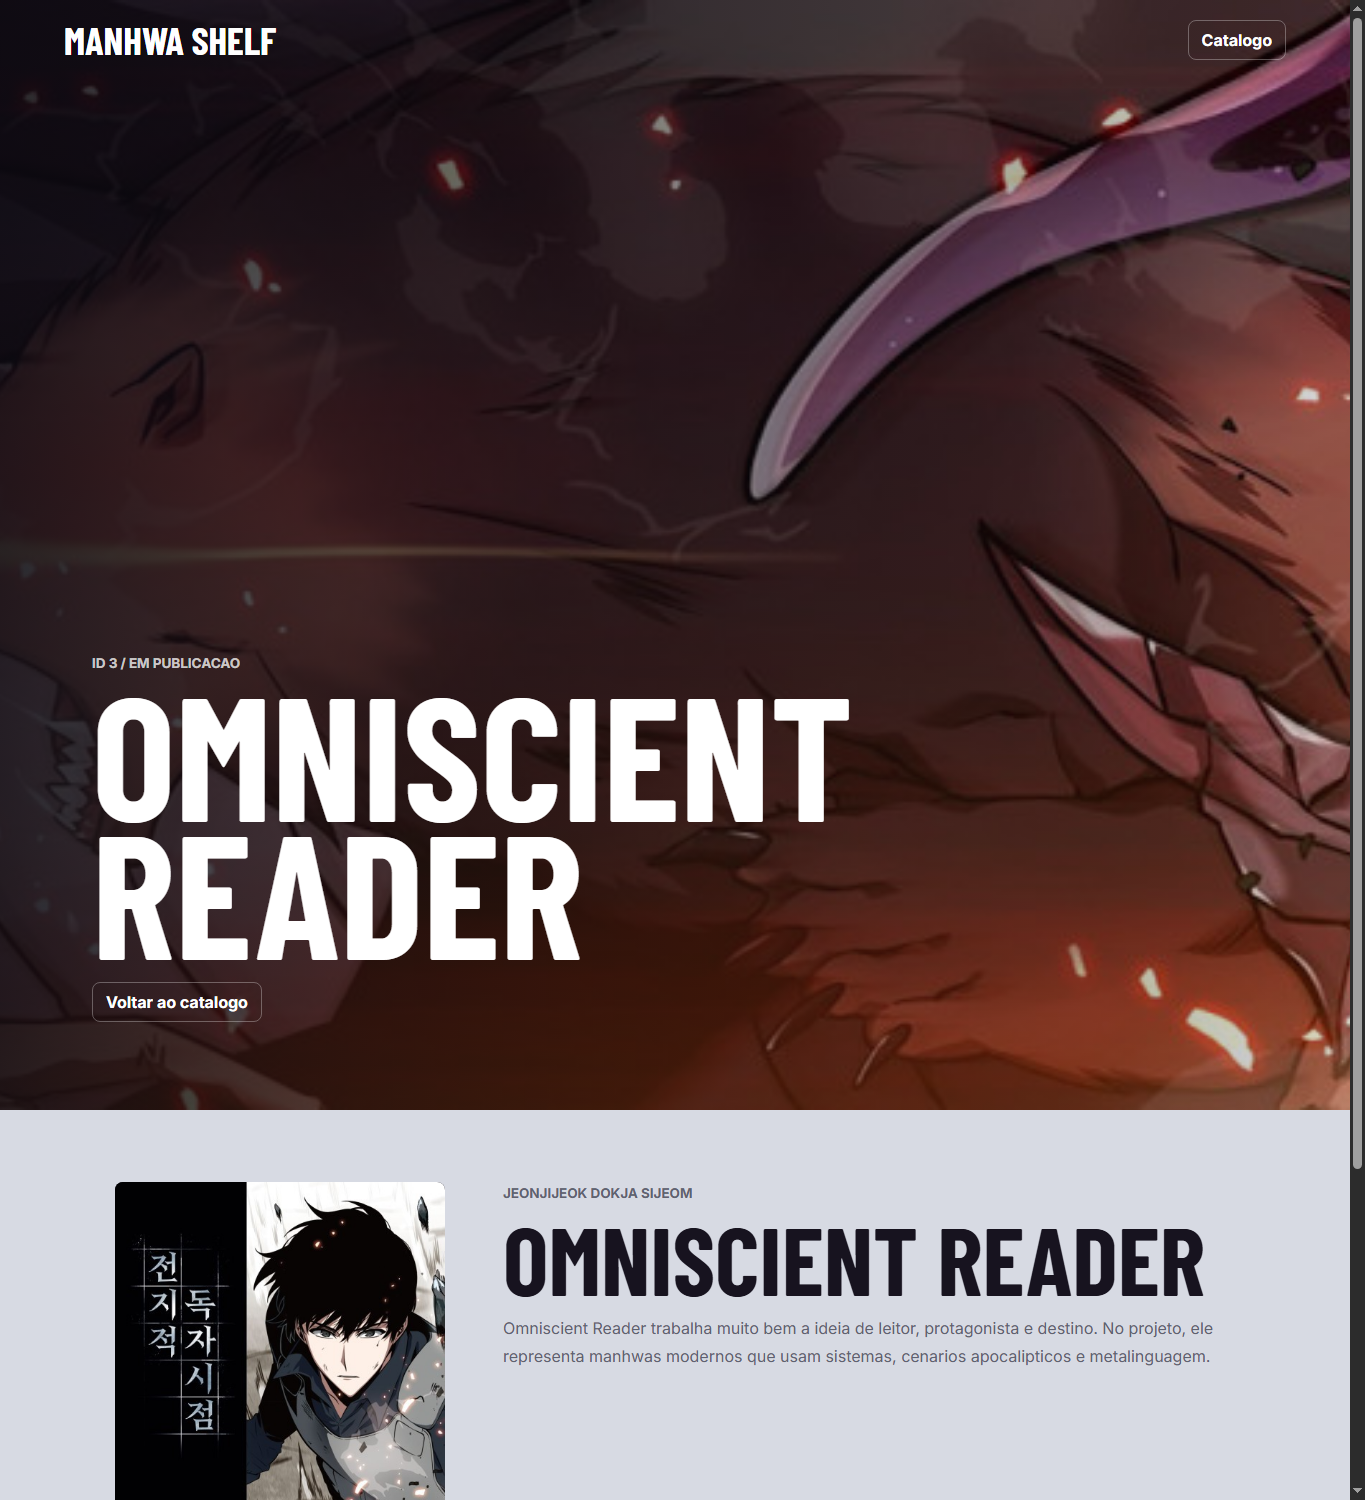
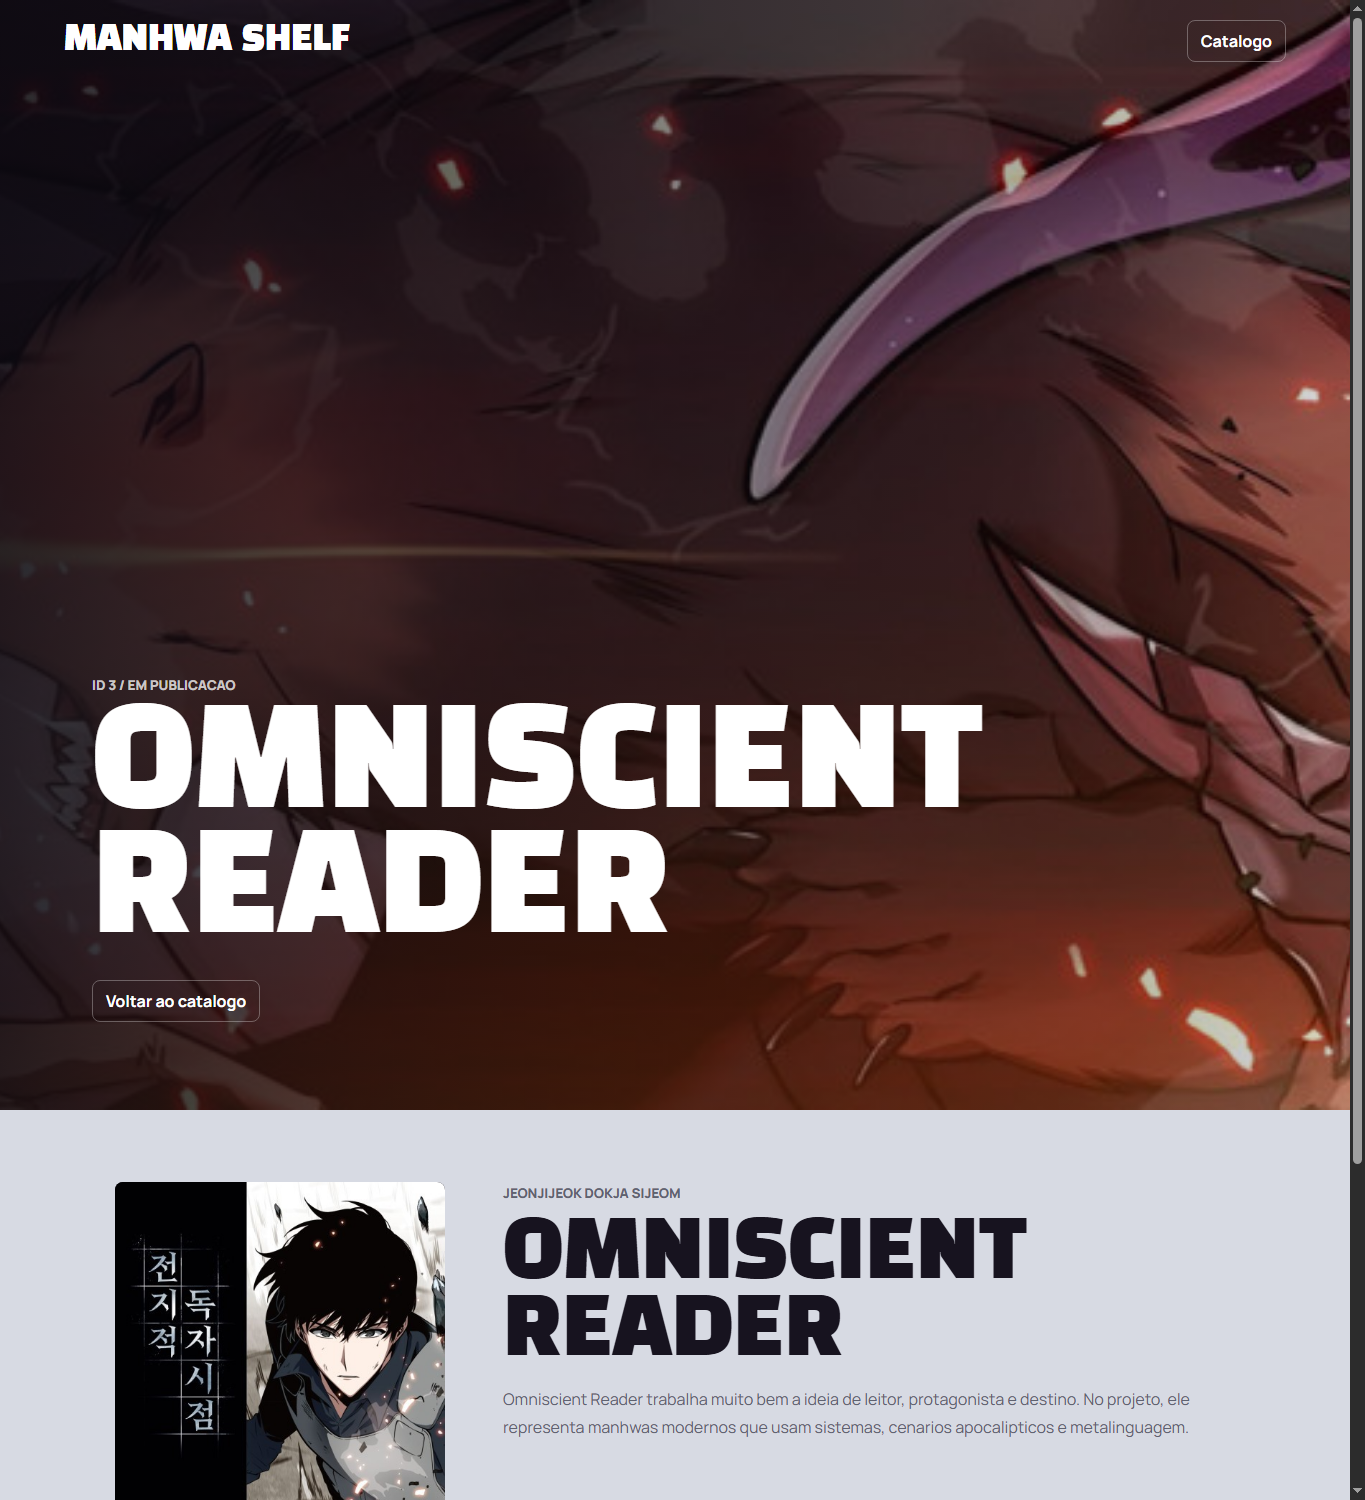
style: update manhwa typography

diff --git a/public/styles.css b/public/styles.css
@@ -7,8 +7,8 @@
   --accent: #6d3fc2;
   --accent-dark: #3b1f51;
   --radius: 8px;
-  --heading: "Barlow Condensed", Arial Narrow, sans-serif;
-  --body: "Inter", Arial, sans-serif;
+  --heading: "Black Han Sans", Impact, sans-serif;
+  --body: "Manrope", Arial, sans-serif;
 }
 
 * {
@@ -54,9 +54,9 @@ img {
 
 .brand-link {
   font-family: var(--heading);
-  font-size: clamp(1.7rem, 4vw, 2.4rem);
-  font-weight: 700;
-  line-height: 0.9;
+  font-size: clamp(1.45rem, 3.4vw, 2.1rem);
+  font-weight: 400;
+  line-height: 1;
   text-decoration: none;
   text-transform: uppercase;
 }
@@ -120,15 +120,15 @@ img {
 .empty-state h2 {
   margin: 0;
   font-family: var(--heading);
-  font-weight: 700;
+  font-weight: 400;
   letter-spacing: 0;
   text-transform: uppercase;
 }
 
 .hero-content h1 {
   max-width: 760px;
-  font-size: clamp(5rem, 17vw, 14rem);
-  line-height: 0.78;
+  font-size: clamp(4.1rem, 13vw, 10.5rem);
+  line-height: 0.92;
 }
 
 .hero-content strong {
@@ -221,14 +221,15 @@ img {
   color: var(--accent);
   font-family: var(--heading);
   font-size: 2rem;
-  font-weight: 700;
+  font-weight: 400;
 }
 
 .reading-copy h3 {
   margin: 6px 0 10px;
-  font-size: clamp(1.8rem, 5vw, 4.2rem);
-  line-height: 0.9;
+  font-size: clamp(1.6rem, 4vw, 3.4rem);
+  line-height: 1;
   font-family: var(--heading);
+  font-weight: 400;
   text-transform: uppercase;
 }
 
@@ -285,8 +286,8 @@ dd,
 
 .detail-hero-content h1 {
   max-width: 880px;
-  font-size: clamp(4rem, 14vw, 11rem);
-  line-height: 0.78;
+  font-size: clamp(3.5rem, 11vw, 8.5rem);
+  line-height: 0.92;
 }
 
 .detail-hero .secondary-link {
@@ -317,8 +318,8 @@ dd,
 }
 
 .detail-story h2 {
-  font-size: clamp(2.8rem, 8vw, 6rem);
-  line-height: 0.86;
+  font-size: clamp(2.4rem, 6vw, 5rem);
+  line-height: 0.96;
 }
 
 .facts-grid {
@@ -377,11 +378,20 @@ dd,
   }
 
   .hero-content h1 {
-    font-size: clamp(3.4rem, 18vw, 5rem);
+    font-size: clamp(2.85rem, 13vw, 3.9rem);
   }
 
   .hero-content span {
     max-width: 28ch;
+  }
+
+  .section-heading h2,
+  .reading-copy h3 {
+    font-size: clamp(2.2rem, 12vw, 3.3rem);
+  }
+
+  .detail-hero-content h1 {
+    font-size: clamp(2.8rem, 13vw, 4rem);
   }
 
   .detail-hero-content h1 {

diff --git a/public/detalhes.html b/public/detalhes.html
@@ -6,7 +6,7 @@
     <title>Manhwa Shelf | Detalhes</title>
     <link rel="preconnect" href="https://fonts.googleapis.com">
     <link rel="preconnect" href="https://fonts.gstatic.com" crossorigin>
-    <link href="https://fonts.googleapis.com/css2?family=Barlow+Condensed:wght@600;700&family=Inter:wght@400;500;600;700&display=swap" rel="stylesheet">
+    <link href="https://fonts.googleapis.com/css2?family=Black+Han+Sans&family=Manrope:wght@400;500;700;800&display=swap" rel="stylesheet">
     <link rel="stylesheet" href="styles.css">
   </head>
   <body>

diff --git a/public/index.html b/public/index.html
@@ -6,7 +6,7 @@
     <title>Manhwa Shelf</title>
     <link rel="preconnect" href="https://fonts.googleapis.com">
     <link rel="preconnect" href="https://fonts.gstatic.com" crossorigin>
-    <link href="https://fonts.googleapis.com/css2?family=Barlow+Condensed:wght@600;700&family=Inter:wght@400;500;600;700&display=swap" rel="stylesheet">
+    <link href="https://fonts.googleapis.com/css2?family=Black+Han+Sans&family=Manrope:wght@400;500;700;800&display=swap" rel="stylesheet">
     <link rel="stylesheet" href="styles.css">
   </head>
   <body>
